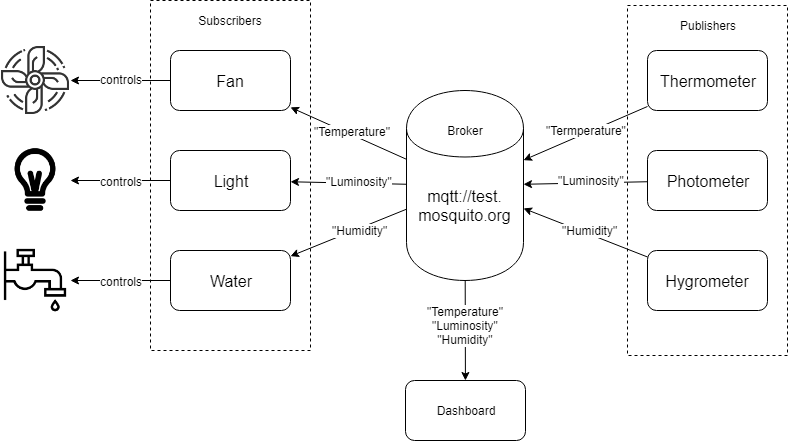
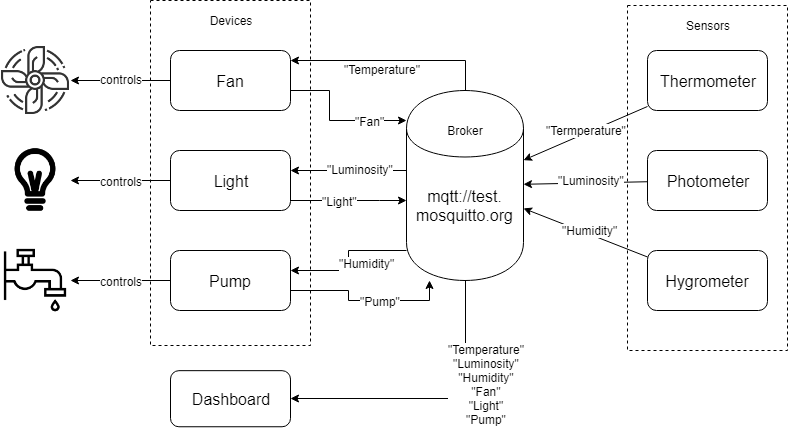
update diagram

diff --git a/13469_13302_MQTT/README.md b/13469_13302_MQTT/README.md
@@ -22,6 +22,25 @@ Build a simple version of a *Pleurotus ostreatus* farm
 
 ![mqtt](mqtt.png)
 
+## Demo run
+
+```
+npm install
+node sensor_hygrometer.js
+node sensor_photometer.js
+node sensor_thermometer.js
+node actuator_fan.js
+node actuator_light.js
+node actuator_pump.js
+node dashboard.js
+```
+
+
+
+![image-20200601133230055](image-20200601133230055.png)
+
+
+
 ## References
 
 [1] [*Pleurotus ostreatus*](https://www.mycelia.be/en/strain-list/m-2191-pleurotus-ostreatus)
